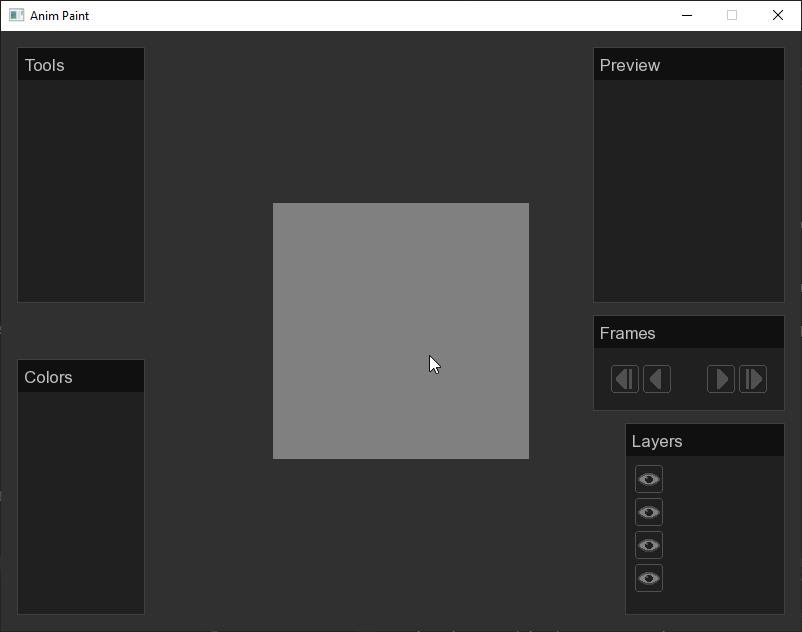
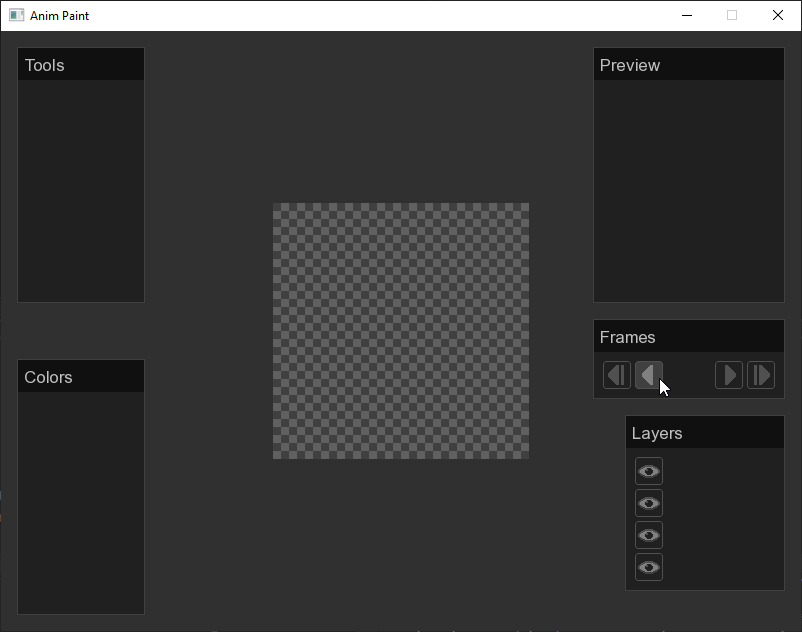
update canvas and added highlighting sprites

diff --git a/Anim-Paint/Frames.hpp b/Anim-Paint/Frames.hpp
@@ -24,14 +24,35 @@ public:
 	void setPosition(sf::Vector2f position) {
 		Dialog::setPosition(position);
 
-		first_btn.setPosition(position + sf::Vector2f(16, 48));
-		prev_btn.setPosition(position + sf::Vector2f(16+32, 48));
-		next_btn.setPosition(position + sf::Vector2f(16+96, 48));
-		last_btn.setPosition(position + sf::Vector2f(16+128, 48));
+		first_btn.setPosition(position + sf::Vector2f(dialog_padding, 32 + dialog_padding));
+		prev_btn.setPosition(position + sf::Vector2f(dialog_padding +32, 32 + dialog_padding));
+		next_btn.setPosition(position + sf::Vector2f(getSize().x - dialog_padding - 64, 32 + dialog_padding));
+		last_btn.setPosition(position + sf::Vector2f(getSize().x - dialog_padding - 32, 32 + dialog_padding));
 	}
 
 	void cursorHover() {
 		Dialog::cursorHover();
+
+		if (first_btn.getGlobalBounds().contains(worldMousePosition))
+			first_btn.setTexture(*getTexture(L"tex\\frames\\first_hover.png")->texture);
+		else
+			first_btn.setTexture(*getTexture(L"tex\\frames\\first.png")->texture);
+
+		if (prev_btn.getGlobalBounds().contains(worldMousePosition))
+			prev_btn.setTexture(*getTexture(L"tex\\frames\\prev_hover.png")->texture);
+		else
+			prev_btn.setTexture(*getTexture(L"tex\\frames\\prev.png")->texture);
+
+		if (next_btn.getGlobalBounds().contains(worldMousePosition))
+			next_btn.setTexture(*getTexture(L"tex\\frames\\next_hover.png")->texture);
+		else
+			next_btn.setTexture(*getTexture(L"tex\\frames\\next.png")->texture);
+
+		if (last_btn.getGlobalBounds().contains(worldMousePosition))
+			last_btn.setTexture(*getTexture(L"tex\\frames\\last_hover.png")->texture);
+		else
+			last_btn.setTexture(*getTexture(L"tex\\frames\\last.png")->texture);
+
 	}
 
 	void handleEvent(sf::Event& event) {

diff --git a/Anim-Paint/main.cpp b/Anim-Paint/main.cpp
@@ -14,9 +14,8 @@
 
 void createDialogs() {
 	dialogs.push_back(new Dialog(L"Preview", sf::Vector2f(192, 256), sf::Vector2f(window->getSize().x - 192 - dialog_margin, dialog_margin)));
-	sf::Vector2f pos(window->getSize().x - 192 - dialog_margin, (window->getSize().y - 192 - dialog_margin + dialog_margin + 256) / 2 - 48);
-	dialogs.push_back(new Frames(L"Frames", sf::Vector2f(192, 96), pos));
-	dialogs.push_back(new Layers(L"Layers", sf::Vector2f(160, 192), sf::Vector2f(window->getSize().x - 160 - dialog_margin, window->getSize().y - 192 - dialog_margin)));
+	dialogs.push_back(new Frames(L"Frames", sf::Vector2f(192, 32 + 32 + dialog_padding * 2), dialogs.back()->getPosition() + sf::Vector2f(0,dialogs.back()->getSize().y + dialog_margin)));
+	dialogs.push_back(new Layers(L"Layers", sf::Vector2f(160, 32 + 4 * 32 + dialog_padding*2), sf::Vector2f(window->getSize().x - 160 - dialog_margin, dialogs.back()->getPosition().y + dialogs.back()->getSize().y + dialog_margin)));
 	dialogs.push_back(new Dialog(L"Tools", sf::Vector2f(128, 256), sf::Vector2f(dialog_margin, dialog_margin)));
 	dialogs.push_back(new Dialog(L"Colors", sf::Vector2f(128, 256), sf::Vector2f(dialog_margin, window->getSize().y - 256 - dialog_margin)));
 

diff --git a/Anim-Paint/Layers.hpp b/Anim-Paint/Layers.hpp
@@ -20,13 +20,20 @@ public:
 		Dialog::setPosition(position);
 
 		for (int i = 0; i < visibles.size(); i++) {
-			visibles[i].setPosition(position + sf::Vector2f(8, 32 + 8 + i * 32 + i));
+			visibles[i].setPosition(position + sf::Vector2f(dialog_padding, 32 + dialog_padding + i * 32));
 		}
 		
 	}
 
 	void cursorHover() {
 		Dialog::cursorHover();
+
+		for (auto& v : visibles) {
+			if (v.getGlobalBounds().contains(worldMousePosition))
+				v.setTexture(*getTexture(L"tex\\layers\\visible_hover.png")->texture);
+			else
+				v.setTexture(*getTexture(L"tex\\layers\\visible.png")->texture);
+		}
 	}
 
 	void handleEvent(sf::Event& event) {

diff --git a/Anim-Paint/Textures.hpp b/Anim-Paint/Textures.hpp
@@ -34,12 +34,20 @@ void loadTexture(std::wstring path) {
 }
 
 void loadTextures() {
+	// dialog - frames
 	loadTexture(L"tex\\frames\\first.png");
 	loadTexture(L"tex\\frames\\prev.png");
 	loadTexture(L"tex\\frames\\next.png");
 	loadTexture(L"tex\\frames\\last.png");
 
+	loadTexture(L"tex\\frames\\first_hover.png");
+	loadTexture(L"tex\\frames\\prev_hover.png");
+	loadTexture(L"tex\\frames\\next_hover.png");
+	loadTexture(L"tex\\frames\\last_hover.png");
+
+	// dialog - layers
 	loadTexture(L"tex\\layers\\visible.png");
+	loadTexture(L"tex\\layers\\visible_hover.png");
 }
 
 #endif

diff --git a/Anim-Paint/Canvas.hpp b/Anim-Paint/Canvas.hpp
@@ -11,6 +11,28 @@ public:
 		this->size = size;
 		img.create(size.x, size.y, canvas_color);
 
+		sf::Color c1 = sf::Color(64, 64, 64);
+		sf::Color c2 = sf::Color(96, 96, 96);
+
+		for (int y = 0; y < size.y; y++) {
+			for (int x = 0; x < size.x; x++) {
+
+				int xx = x / 8;
+				int yy = y / 8;
+				sf::Color c;
+				if (yy % 2 == 0) {
+					(xx % 2 == 0) ? c = c1 : c = c2;
+				}
+				else {
+					(xx % 2 == 1) ? c = c1 : c = c2;
+				}
+
+				img.setPixel(x, y, c);
+
+				
+			}
+		}
+
 	}
 
 	~Canvas() { }

diff --git a/Anim-Paint/Theme.hpp b/Anim-Paint/Theme.hpp
@@ -5,6 +5,7 @@ sf::Font basicFont;
 
 int dialog_border_width;
 int dialog_margin;						// distance from edge of screen to dialog
+int dialog_padding;
 float dialog_title_font_size;
 sf::Color dialog_title_text_color;
 sf::Color dialog_rect_color;
@@ -18,6 +19,7 @@ void loadTheme() {
 	basicFont.loadFromFile("C:/Windows/Fonts/arial.ttf");
 
 	dialog_margin = 16;
+	dialog_padding = 8;
 	dialog_title_font_size = 17;
 	dialog_border_width = 1;
 	dialog_title_text_color = sf::Color(192, 192, 192);
